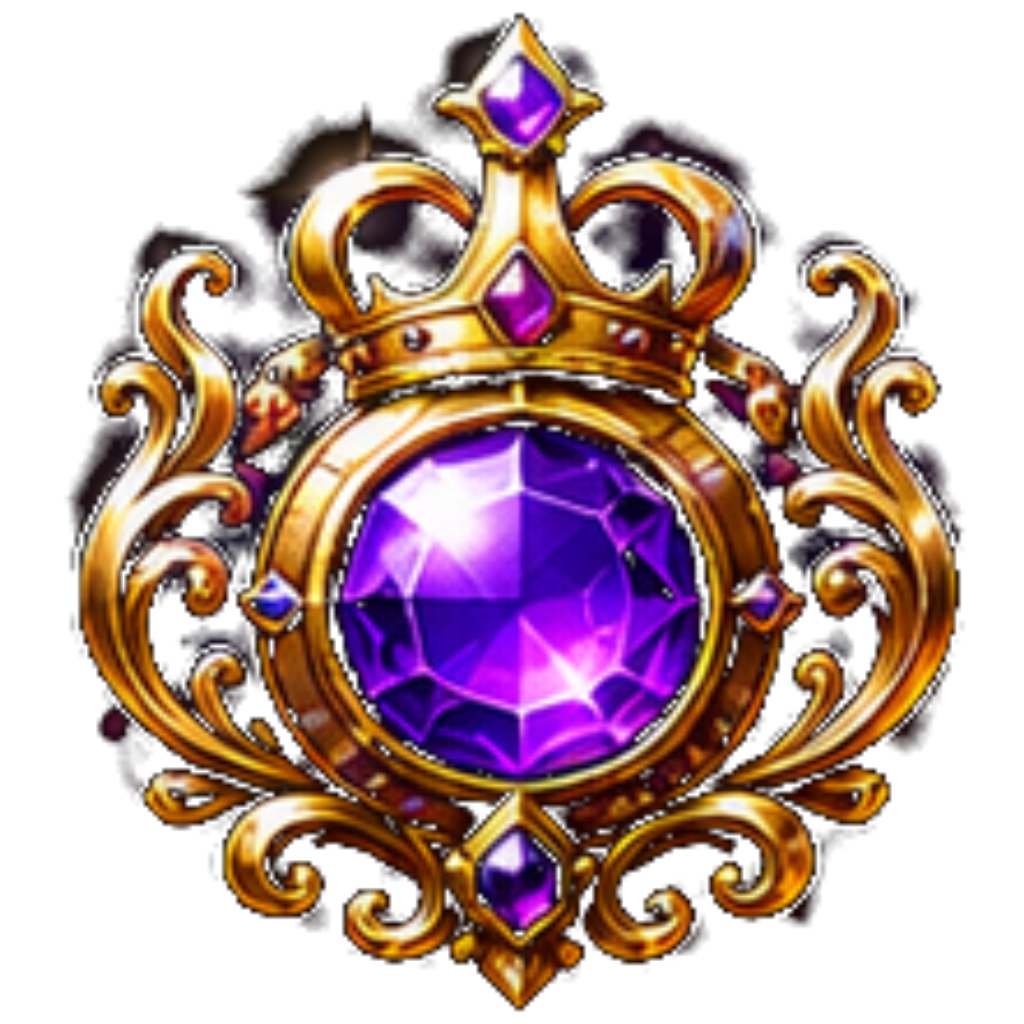
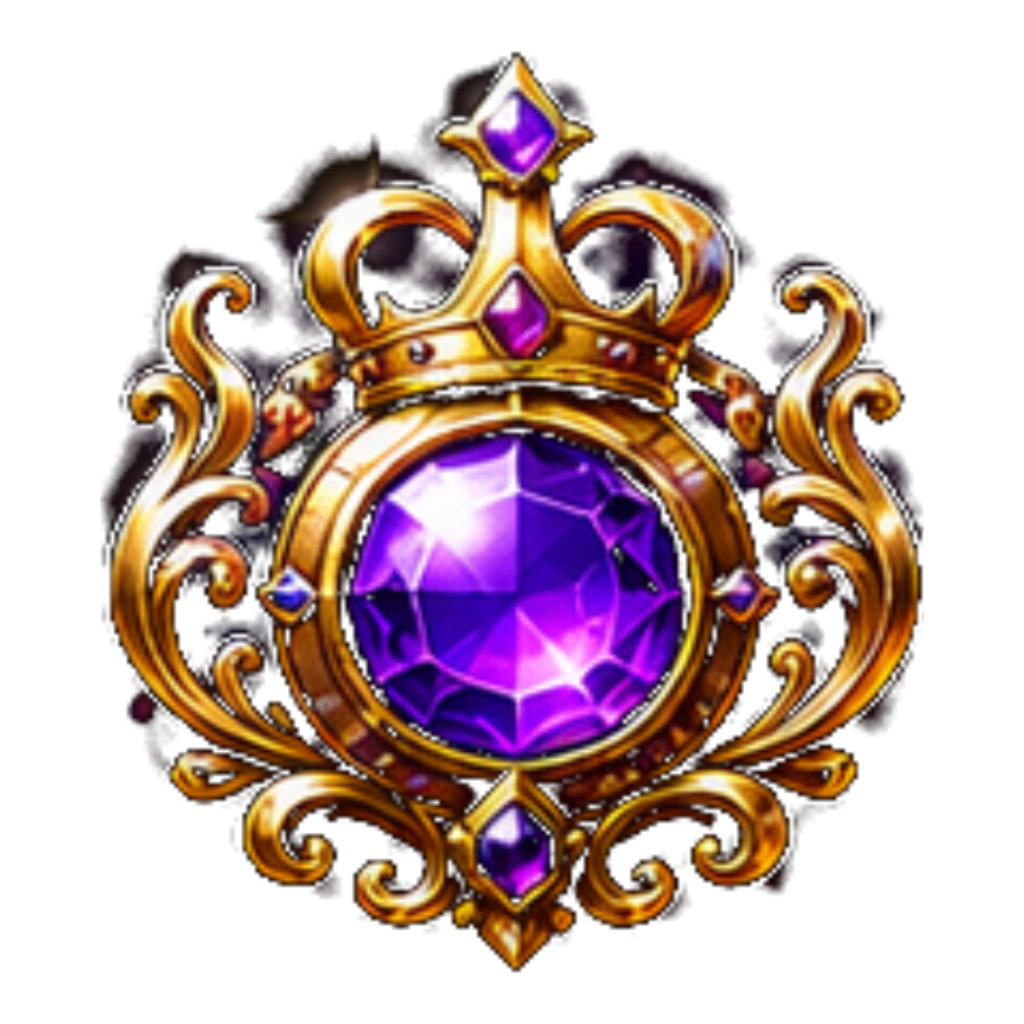
Rozet sistemi: level/role/special normalize + özel ID nameplate + bilgi kartı
Aşama 1 — level/role/special rozetlerini normalize et: her PNG gerçek içerik
bbox'ına trim edilip ortalandı, uzun kenar tuvalin %90'ına ölçeklendi. Böylece
"bazı büyük bazı küçük / VIP bir tık üstte" hizalama ve simetri sorunu giderildi
(hepsi merkez 0.500, tek standart dolgu). Oda rozetleri bu turda değişmedi.

Aşama 2 — Özel ID nameplate temeli: 30 çerçeve sheet'i kenar flood-fill ile
kırpıldı (iç panel korunur), assets/badges/nameplate/ altına eklendi.
IdNameplate bileşeni çerçeveyi çizip üstüne ID metnini iç panele oturtur.

Aşama 3 — Rozet bilgi kartı: PngBadge artık tıklanınca liquid-glass merkez
modal (BadgeInfoModal) açıyor — büyük rozet + İngilizce başlık + Türkçe açıklama
(badgeInfo.ts). preview.tsx'e normalize rozet + 30 nameplate galerisi eklendi.

Claude-Session: https://claude.ai/code/session_01FFBK9gwZdbywsPLfswHnhK

diff --git a/src/components/IdNameplate.tsx b/src/components/IdNameplate.tsx
@@ -1,0 +1,112 @@
+import { Image } from "expo-image";
+import { Text, View } from "react-native";
+
+import { Font } from "@/theme/fonts";
+
+// Özel ID nameplate çerçeveleri (30 adet) — kullanıcının kendi ürettiği sanat.
+// Özel ID tanımlanan kişilere verilir; üzerine istenen ID metni yazılır.
+const FRAME = {
+  nameplate_01: require("@/assets/badges/nameplate/nameplate_01.png"),
+  nameplate_02: require("@/assets/badges/nameplate/nameplate_02.png"),
+  nameplate_03: require("@/assets/badges/nameplate/nameplate_03.png"),
+  nameplate_04: require("@/assets/badges/nameplate/nameplate_04.png"),
+  nameplate_05: require("@/assets/badges/nameplate/nameplate_05.png"),
+  nameplate_06: require("@/assets/badges/nameplate/nameplate_06.png"),
+  nameplate_07: require("@/assets/badges/nameplate/nameplate_07.png"),
+  nameplate_08: require("@/assets/badges/nameplate/nameplate_08.png"),
+  nameplate_09: require("@/assets/badges/nameplate/nameplate_09.png"),
+  nameplate_10: require("@/assets/badges/nameplate/nameplate_10.png"),
+  nameplate_11: require("@/assets/badges/nameplate/nameplate_11.png"),
+  nameplate_12: require("@/assets/badges/nameplate/nameplate_12.png"),
+  nameplate_13: require("@/assets/badges/nameplate/nameplate_13.png"),
+  nameplate_14: require("@/assets/badges/nameplate/nameplate_14.png"),
+  nameplate_15: require("@/assets/badges/nameplate/nameplate_15.png"),
+  nameplate_16: require("@/assets/badges/nameplate/nameplate_16.png"),
+  nameplate_17: require("@/assets/badges/nameplate/nameplate_17.png"),
+  nameplate_18: require("@/assets/badges/nameplate/nameplate_18.png"),
+  nameplate_19: require("@/assets/badges/nameplate/nameplate_19.png"),
+  nameplate_20: require("@/assets/badges/nameplate/nameplate_20.png"),
+  nameplate_21: require("@/assets/badges/nameplate/nameplate_21.png"),
+  nameplate_22: require("@/assets/badges/nameplate/nameplate_22.png"),
+  nameplate_23: require("@/assets/badges/nameplate/nameplate_23.png"),
+  nameplate_24: require("@/assets/badges/nameplate/nameplate_24.png"),
+  nameplate_25: require("@/assets/badges/nameplate/nameplate_25.png"),
+  nameplate_26: require("@/assets/badges/nameplate/nameplate_26.png"),
+  nameplate_27: require("@/assets/badges/nameplate/nameplate_27.png"),
+  nameplate_28: require("@/assets/badges/nameplate/nameplate_28.png"),
+  nameplate_29: require("@/assets/badges/nameplate/nameplate_29.png"),
+  nameplate_30: require("@/assets/badges/nameplate/nameplate_30.png"),
+} as const;
+
+export type NameplateFrame = keyof typeof FRAME;
+export const NAMEPLATE_FRAMES = Object.keys(FRAME) as NameplateFrame[];
+
+// Her çerçevenin metin oturacağı iç panel oranları (frame'e göre normalize).
+// Soldaki madalyonlu çerçevelerde metin sağa kayar. Varsayılan simetrik.
+type Rect = { l: number; r: number; t: number; b: number };
+const DEFAULT_RECT: Rect = { l: 0.19, r: 0.86, t: 0.30, b: 0.72 };
+const LEFT_MEDALLION: Record<string, Rect> = {
+  nameplate_01: { l: 0.36, r: 0.9, t: 0.3, b: 0.72 },
+  nameplate_02: { l: 0.36, r: 0.9, t: 0.3, b: 0.72 },
+  nameplate_03: { l: 0.36, r: 0.9, t: 0.32, b: 0.74 },
+  nameplate_11: { l: 0.36, r: 0.9, t: 0.32, b: 0.74 },
+  nameplate_23: { l: 0.36, r: 0.9, t: 0.34, b: 0.76 },
+};
+
+const RATIO = 3.0; // ortalama en-boy (yükseklik = genişlik / RATIO)
+
+export function IdNameplate({
+  frame,
+  text,
+  width = 260,
+  color = "#FBE9C8",
+}: {
+  frame: NameplateFrame;
+  text: string;
+  width?: number;
+  color?: string;
+}) {
+  const height = width / RATIO;
+  const rect = LEFT_MEDALLION[frame] ?? DEFAULT_RECT;
+  const boxLeft = width * rect.l;
+  const boxWidth = width * (rect.r - rect.l);
+  const boxTop = height * rect.t;
+  const boxHeight = height * (rect.b - rect.t);
+  // metin yüksekliğe göre ölçekle, adjustsFontSizeToFit genişliğe sığdırır
+  const fontSize = Math.min(boxHeight * 0.92, width * 0.11);
+
+  return (
+    <View style={{ width, height }}>
+      <Image source={FRAME[frame]} style={{ width, height }} contentFit="contain" />
+      <View
+        style={{
+          position: "absolute",
+          left: boxLeft,
+          top: boxTop,
+          width: boxWidth,
+          height: boxHeight,
+          alignItems: "center",
+          justifyContent: "center",
+        }}
+        pointerEvents="none"
+      >
+        <Text
+          numberOfLines={1}
+          adjustsFontSizeToFit
+          style={{
+            fontFamily: Font.displayBold,
+            fontSize,
+            color,
+            letterSpacing: 1,
+            includeFontPadding: false,
+            textShadowColor: "rgba(0,0,0,.6)",
+            textShadowOffset: { width: 0, height: 1 },
+            textShadowRadius: 3,
+          }}
+        >
+          {text}
+        </Text>
+      </View>
+    </View>
+  );
+}

diff --git a/src/components/BadgeInfoModal.tsx b/src/components/BadgeInfoModal.tsx
@@ -1,0 +1,108 @@
+import { BlurView } from "expo-blur";
+import { Image } from "expo-image";
+import { Modal, Pressable, StyleSheet, View } from "react-native";
+import Animated, { FadeIn, ZoomIn } from "react-native-reanimated";
+
+import { type BadgeInfo } from "@/data/badgeInfo";
+import { Gradient } from "@/theme/Gradient";
+import { C } from "@/theme/colors";
+import { Txt } from "./Txt";
+
+// Liquid-glass rozet bilgi kartı — rozete tıklanınca ortada açılır.
+export function BadgeInfoModal({
+  visible,
+  onClose,
+  source,
+  info,
+}: {
+  visible: boolean;
+  onClose: () => void;
+  source: number;
+  info: BadgeInfo;
+}) {
+  return (
+    <Modal visible={visible} transparent animationType="fade" statusBarTranslucent onRequestClose={onClose}>
+      <Pressable style={styles.backdrop} onPress={onClose}>
+        <Animated.View entering={FadeIn.duration(180)} style={StyleSheet.absoluteFill}>
+          <BlurView intensity={38} tint="dark" style={StyleSheet.absoluteFill} />
+        </Animated.View>
+
+        <Animated.View entering={ZoomIn.springify().damping(16).mass(0.75)} style={styles.cardWrap}>
+          <Pressable onPress={() => {}}>
+            {/* cam gövde: blur + ince kenar ışığı + üstten tint parıltısı */}
+            <BlurView intensity={60} tint="light" style={styles.card}>
+              <Gradient
+                colors={[info.tint + "38", "transparent"]}
+                deg={180}
+                style={StyleSheet.absoluteFill}
+                pointerEvents="none"
+              />
+              <View style={styles.sheen} pointerEvents="none" />
+
+              <View style={[styles.glow, { backgroundColor: info.tint + "26", shadowColor: info.tint }]}>
+                <Image source={source} style={styles.badge} contentFit="contain" />
+              </View>
+
+              <Txt weight="extrabold" size={22} color="#fff" align="center" style={{ marginTop: 16 }}>
+                {info.title}
+              </Txt>
+              <View style={[styles.pill, { borderColor: info.tint + "66", backgroundColor: info.tint + "1F" }]}>
+                <Txt weight="bold" size={11} color="#fff" style={{ letterSpacing: 0.5 }}>
+                  {info.sub.toUpperCase()}
+                </Txt>
+              </View>
+              <Txt size={13} color="rgba(255,255,255,.82)" lh={1.55} align="center" style={{ marginTop: 12 }}>
+                {info.desc}
+              </Txt>
+
+              <Pressable onPress={onClose} style={styles.closeBtn}>
+                <Txt weight="bold" size={13} color="rgba(255,255,255,.9)">Kapat</Txt>
+              </Pressable>
+            </BlurView>
+          </Pressable>
+        </Animated.View>
+      </Pressable>
+    </Modal>
+  );
+}
+
+const styles = StyleSheet.create({
+  backdrop: { flex: 1, alignItems: "center", justifyContent: "center", padding: 32, backgroundColor: "rgba(3,3,8,.5)" },
+  cardWrap: { width: "100%", maxWidth: 300 },
+  card: {
+    borderRadius: 26,
+    overflow: "hidden",
+    paddingTop: 26,
+    paddingBottom: 18,
+    paddingHorizontal: 22,
+    alignItems: "center",
+    borderWidth: 1,
+    borderColor: "rgba(255,255,255,.22)",
+    backgroundColor: "rgba(30,28,42,.55)",
+  },
+  sheen: { position: "absolute", top: 0, left: 0, right: 0, height: 1.5, backgroundColor: "rgba(255,255,255,.35)" },
+  glow: {
+    width: 132,
+    height: 132,
+    borderRadius: 30,
+    alignItems: "center",
+    justifyContent: "center",
+    borderWidth: 1,
+    borderColor: "rgba(255,255,255,.14)",
+    shadowOpacity: 0.9,
+    shadowRadius: 24,
+    shadowOffset: { width: 0, height: 6 },
+  },
+  badge: { width: 118, height: 118 },
+  pill: { marginTop: 9, paddingVertical: 4, paddingHorizontal: 12, borderRadius: 999, borderWidth: 1 },
+  closeBtn: {
+    marginTop: 18,
+    alignSelf: "stretch",
+    alignItems: "center",
+    paddingVertical: 11,
+    borderRadius: 14,
+    backgroundColor: "rgba(255,255,255,.1)",
+    borderWidth: 1,
+    borderColor: "rgba(255,255,255,.16)",
+  },
+});

diff --git a/src/data/badgeInfo.ts b/src/data/badgeInfo.ts
@@ -1,0 +1,28 @@
+import { type PngBadgeName } from "@/components/PngBadge";
+
+// Rozet bilgi kartı içeriği — başlıklar İngilizce (kullanıcı tercihi),
+// açıklamalar Türkçe. Rozete tıklanınca liquid-glass modalda gösterilir.
+export type BadgeInfo = { title: string; sub: string; desc: string; tint: string };
+
+export const BADGE_INFO: Record<PngBadgeName, BadgeInfo> = {
+  level_bronze: { title: "Bronze", sub: "Seviye Rütbesi", desc: "İlk adımlar. 1–9 seviye aralığındaki üyelerin taşıdığı bronz rütbe.", tint: "#C77B3B" },
+  level_silver: { title: "Silver", sub: "Seviye Rütbesi", desc: "Gümüş rütbe. 10–19 seviye aralığına ulaşan aktif üyeler.", tint: "#C7CBD1" },
+  level_gold: { title: "Gold", sub: "Seviye Rütbesi", desc: "Altın rütbe. 20–29 seviye aralığındaki köklü üyeler.", tint: "#F5B100" },
+  level_platinum: { title: "Platinum", sub: "Seviye Rütbesi", desc: "Platin rütbe. 30–39 seviye — topluluğun kıdemli üyeleri.", tint: "#8FE3E8" },
+  level_diamond: { title: "Diamond", sub: "Seviye Rütbesi", desc: "Elmas rütbe. 40–49 seviye — en aktif elit üyeler.", tint: "#5AA9FF" },
+  level_legendary: { title: "Legendary", sub: "Seviye Rütbesi", desc: "Efsanevi rütbe. 50+ seviye — platformun zirvesindeki isimler.", tint: "#B98CFF" },
+  role_developer: { title: "Developer", sub: "Sistem Rolü", desc: "Aron Chat geliştirici ekibi. En yüksek yetki seviyesi.", tint: "#A98CFF" },
+  role_super_admin: { title: "Super Admin", sub: "Yönetim Rolü", desc: "Platform genelinde tam yetkili baş yönetici.", tint: "#FF6B6B" },
+  role_admin: { title: "Admin", sub: "Yönetim Rolü", desc: "Platform yöneticisi. Kullanıcı ve oda denetiminden sorumlu.", tint: "#F5B100" },
+  role_moderator: { title: "Moderator", sub: "Yönetim Rolü", desc: "Topluluk moderatörü. Kuralların uygulanmasını sağlar.", tint: "#B0A0FF" },
+  role_streamer: { title: "Streamer", sub: "İçerik Rolü", desc: "Onaylı yayıncı. Sesli odalarda düzenli yayın açan üyeler.", tint: "#4ADE80" },
+  role_vip: { title: "VIP", sub: "Ayrıcalık Rozeti", desc: "VIP üyelik. Özel ayrıcalıklara ve önceliğe sahip üyeler.", tint: "#E5484D" },
+  role_vip_hukumdar: { title: "VIP Sovereign", sub: "Ayrıcalık Rozeti", desc: "En üst düzey VIP. Hükümdar seviyesinde ayrıcalıklar.", tint: "#C9A227" },
+  room_weekly_champion: { title: "Weekly Champion", sub: "Oda Başarısı", desc: "Haftanın şampiyonu olan oda. Haftalık zirvenin sahibi.", tint: "#F5B100" },
+  room_rank_silver: { title: "Silver Rank", sub: "Oda Sıralaması", desc: "Sıralamada gümüş basamağa ulaşan oda.", tint: "#C7CBD1" },
+  room_rank_bronze: { title: "Bronze Rank", sub: "Oda Sıralaması", desc: "Sıralamada bronz basamağa ulaşan oda.", tint: "#C77B3B" },
+  room_rising_star: { title: "Rising Star", sub: "Oda Başarısı", desc: "Yükselen yıldız. Hızla büyüyen yeni oda.", tint: "#5AA9FF" },
+  room_top_gifter: { title: "Top Gifter", sub: "Oda Başarısı", desc: "En çok hediye alan/gönderen oda topluluğu.", tint: "#8FE3E8" },
+  room_daily_streak: { title: "Daily Streak", sub: "Oda Başarısı", desc: "Günlük seri. Kesintisiz aktif kalan oda.", tint: "#FF7A45" },
+  special_beta_tester: { title: "Beta Tester", sub: "Özel Rozet", desc: "Beta test sürecine katkı sağlayan erken üyeler. Nadir rozet.", tint: "#38BDF8" },
+};

diff --git a/src/app/preview.tsx b/src/app/preview.tsx
@@ -5,7 +5,9 @@ import { SafeAreaView } from "react-native-safe-area-context";
 import { BadgeRow } from "@/components/BadgeRow";
 import { CoinBadge, DiamondBadge } from "@/components/Coins";
 import { Eq } from "@/components/Eq";
+import { IdNameplate, NAMEPLATE_FRAMES } from "@/components/IdNameplate";
 import { Pill } from "@/components/Pill";
+import { PngBadge, type PngBadgeName } from "@/components/PngBadge";
 import { Portrait } from "@/components/Portrait";
 import { RolePill } from "@/components/RolePill";
 import { Scene } from "@/components/Scene";
@@ -28,6 +30,14 @@ const DEMO_BADGES: BadgeItem[] = [
 ];
 
 const PEOPLE_NAMES = ["Mervee", "Zeno Sv.", "Lunas", "Ender", "Furkan", "Sen"];
+
+const DEMO_PNG_BADGES: PngBadgeName[] = [
+  "role_developer", "role_super_admin", "role_admin", "role_moderator", "role_streamer",
+  "role_vip", "role_vip_hukumdar", "level_bronze", "level_silver", "level_gold",
+  "level_platinum", "level_diamond", "level_legendary", "special_beta_tester",
+];
+
+const DEMO_IDS = ["ARDA", "888888", "ARON", "V.I.P", "100000", "ZENO"];
 
 /**
  * Geçici temel-katman önizlemesi. Navigasyon iskeleti (Aşama 2) ile değiştirilecek.
@@ -132,6 +142,24 @@ export default function Index() {
               BlurView + gradyan + glint çizgisi
             </Txt>
           </GlassPanel>
+
+          <Txt weight="bold" size={13} color={C.dim} style={styles.label}>
+            Premium rozetler (normalize — tıkla → bilgi kartı)
+          </Txt>
+          <View style={styles.rowWrap}>
+            {DEMO_PNG_BADGES.map((n) => (
+              <PngBadge key={n} name={n} size={40} />
+            ))}
+          </View>
+
+          <Txt weight="bold" size={13} color={C.dim} style={styles.label}>
+            Özel ID nameplate ({NAMEPLATE_FRAMES.length} çerçeve)
+          </Txt>
+          <View style={{ paddingHorizontal: 18, gap: 10 }}>
+            {NAMEPLATE_FRAMES.map((f, i) => (
+              <IdNameplate key={f} frame={f} text={DEMO_IDS[i % DEMO_IDS.length]} width={280} />
+            ))}
+          </View>
         </ScrollView>
       </SafeAreaView>
     </View>

diff --git a/src/components/PngBadge.tsx b/src/components/PngBadge.tsx
@@ -1,4 +1,10 @@
 import { Image } from "expo-image";
+import { useState } from "react";
+import { Pressable } from "react-native";
+
+import { BADGE_INFO } from "@/data/badgeInfo";
+import { haptic } from "@/lib/haptics";
+import { BadgeInfoModal } from "./BadgeInfoModal";
 
 const IMG = {
   level_bronze: require("@/assets/badges/level/level_bronze.png"),
@@ -25,7 +31,24 @@ const IMG = {
 
 export type PngBadgeName = keyof typeof IMG;
 
-/** Premium PNG rozet seti (level/role/room/special) — kullanıcının kendi ürettiği gerçek sanat eseri. */
-export function PngBadge({ name, size = 48 }: { name: PngBadgeName; size?: number }) {
-  return <Image source={IMG[name]} style={{ width: size, height: size }} contentFit="contain" />;
+/**
+ * Premium PNG rozet — kullanıcının kendi ürettiği gerçek sanat eseri.
+ * Tıklanınca liquid-glass bilgi kartı açılır (info=false ile kapatılabilir).
+ */
+export function PngBadge({ name, size = 48, info = true }: { name: PngBadgeName; size?: number; info?: boolean }) {
+  const [open, setOpen] = useState(false);
+  const meta = BADGE_INFO[name];
+
+  if (!info || !meta) {
+    return <Image source={IMG[name]} style={{ width: size, height: size }} contentFit="contain" />;
+  }
+
+  return (
+    <>
+      <Pressable hitSlop={4} onPress={() => { haptic.light(); setOpen(true); }}>
+        <Image source={IMG[name]} style={{ width: size, height: size }} contentFit="contain" />
+      </Pressable>
+      <BadgeInfoModal visible={open} onClose={() => setOpen(false)} source={IMG[name]} info={meta} />
+    </>
+  );
 }

diff --git a/PROJE_DURUMU.md b/PROJE_DURUMU.md
@@ -292,8 +292,57 @@ oradan da çalışır (evrensel, Expo'nun resmi CLI'sinde yerleşik).
 - Yukarıdaki §7'deki tüm `false` feature flag'ler = bilinçli olarak MVP
   dışında bırakılan, ama kodu hazır duran özellikler.
 
+## 9.5) Rozet Sistemi (Premium PNG Setleri) — Güncel Durum
+
+Tüm rozetler kullanıcının **kendi ürettiği gerçek sanat eseri** (GPT görselleri),
+Node+pngjs ile piksel-hassas kırpılıp `assets/badges/` altına konur. **ASLA
+elle SVG çizilmez** — kullanıcı bunu açıkça reddetti.
+
+### Klasör düzeni (`assets/badges/`)
+- `level/` (6): level_bronze/silver/gold/platinum/diamond/legendary — seviye rütbeleri.
+- `role/` (7): developer, super_admin, admin, moderator, streamer, vip, vip_hukumdar.
+- `special/` (1): beta_tester.
+- `room/` (36): hiyerarşik oda rozetleri (weekly_champion, room_owner, legendary…).
+- `nameplate/` (30): **özel ID nameplate çerçeveleri** (nameplate_01…30).
+
+### Aşama 1 — level/role/special NORMALİZE edildi (BU OTURUM)
+Sorun: her rozetin içeriği tuval içinde farklı boyut/konumdaydı (dolgu %74–100,
+dikey merkez 0.44–0.54) → "bazı büyük bazı küçük, VIP bir tık üstte". Çözüm:
+`scratchpad/normalize-badges.js` her PNG'yi gerçek içerik bbox'ına trim eder,
+ortalar, uzun kenarı tuvalin **%90'ına** ölçekler. Sonuç: hepsi merkez
+(0.500, 0.500), tek standart dolgu. **Bu script yalnızca level/role/special'a
+uygulandı; oda rozetleri (room/) kullanıcı isteğiyle şimdilik dokunulmadı.**
+Yeni bir sheet kırpılırsa bu normalize adımı standart olmalı.
+
+### Aşama 2 — Özel ID nameplate sistemi (BU OTURUM — TEMEL kuruldu)
+- Kaynak: 6×5 = 30 çerçeve sheet'i (`9b259511-…png`, 1672×941).
+- Kırpma: `scratchpad/nameplates/crop.js` — **kenar flood-fill** ile yalnızca
+  dış siyah boşluğu şeffaf yapar (luminance chroma-key DEĞİL — o, iç koyu
+  paneli delerdi). En-boy korunur (~3:1), genişlik 1000px'e normalize.
+- Bileşen: `src/components/IdNameplate.tsx` — `<IdNameplate frame text width/>`
+  çerçeveyi çizer + metni iç panele oturtur (`adjustsFontSizeToFit`, displayBold,
+  gölge). İç panel dikdörtgeni frame'e göre oran olarak tanımlı; soldaki
+  madalyonlu 5 çerçevede (01,02,03,11,23) metin sağa kayar.
+- **YAPILACAK (sonraki oturum):** (a) her frame için iç-panel oranlarını cihazda
+  görüp ince ayarla; (b) DB'ye "atanan nameplate" kolonu + admin-user'da atama
+  UI; (c) profil/ID gösteriminde nameplate'i bağla. Şu an sadece `preview.tsx`
+  galerisinde 30'u da örnek metinle görünüyor.
+
+### Aşama 3 — Rozet bilgi kartı (BU OTURUM — tamam)
+- `src/components/BadgeInfoModal.tsx` — liquid-glass (BlurView) merkez modal:
+  büyük rozet + glow + İngilizce başlık + Türkçe açıklama.
+- `src/data/badgeInfo.ts` — her PngBadge için {title(EN), sub, desc(TR), tint}.
+- `PngBadge` artık **kendi kendine tıklanabilir** (`info` prop'u ile kapatılır):
+  profile/user-profile/admin-user/rank'ta ekstra tel bağlama gerekmez, tıkla →
+  kart açılır. Room rozetleri (RoomBadge) henüz tıklanabilir DEĞİL.
+
 ## 10) Şu An Kaldığımız Yer
 
+- **Bu oturumda yapıldı:** (§9.5) Rozet Aşama 1 (level/role/special normalize —
+  hizalama/boyut standardı, VIP dikey merkez düzeltildi), Aşama 2 (30 özel ID
+  nameplate kırpıldı + `IdNameplate` bileşeni + preview galerisi), Aşama 3
+  (rozet tıkla → liquid-glass bilgi kartı). `npx tsc --noEmit` temiz, web export
+  başarılı. Oda rozetleri kullanıcı isteğiyle bu turda değiştirilmedi.
 - **Son commit:** `3f592d4` — "Tab bar cilası + Android klavye düzeltmesi"
   (dal: `claude/metro-recovery-1xc2kq`, origin ile senkron, çalışma ağacı
   temiz).
